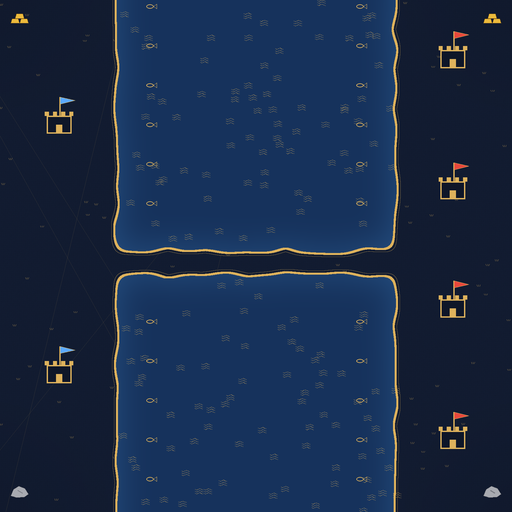
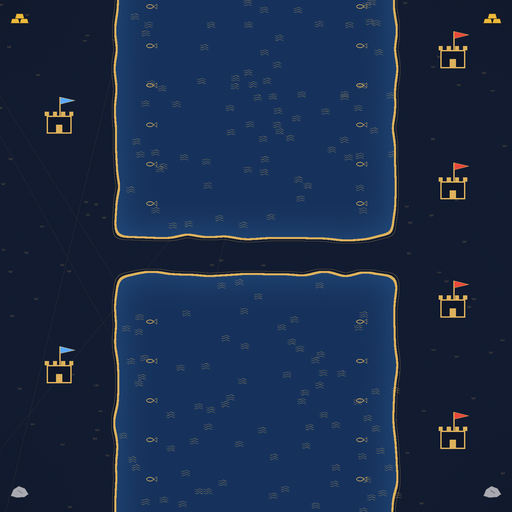
Fortress Bridge: widen the bridge to 48 m
At two squares the engine's shore smoothing flooded the bridge, so
nothing could cross; three squares keep it whole.

diff --git a/maps/tools/install_project.py b/maps/tools/install_project.py
@@ -44,7 +44,7 @@ TEXTS = {
         "两队各守一岸，中间只有一座窄长的陆桥，两侧全是深水。为《堡垒模式》设计，也可当普通团队图。 / Two teams on opposite shores, joined only by one long, narrow land bridge with deep water on both sides. Made for Fortress Mode; works as any team game.",
         "1 号位所在的队伍在左岸，其他队伍在右岸 / The first player's team takes the left shore, everyone else the right",
         "真人放同一队并占 1 号位，AI 放另一队 / Put humans on one team, with you in slot 1, and AIs on the other",
-        "两边各守一岸，中间只有一座约 32 米宽的陆桥，两侧是深水，停在一侧的战舰能打到整座桥。两岸都有浅滩和鱼群。 / One shore each and a single land bridge about 32 m wide between, with deep water on both sides; a warship on one side covers all of it. Both shores have shallows and fish.",
+        "两边各守一岸，中间只有一座约 48 米宽的陆桥，两侧是深水，停在一侧的战舰能打到大半座桥。两岸都有浅滩和鱼群。 / One shore each and a single land bridge about 48 m wide between, with deep water on both sides; a warship on one side covers most of it. Both shores have shallows and fish.",
     ),
     "fortress_hill": (
         "大家一起守护城河围着的中央小山，每位守方一对相邻的陆桥。为《堡垒模式》设计，也可当普通团队图。 / Hold the moated hill in the middle together, with a pair of close land bridges for each defender. Made for Fortress Mode; works as any team game.",

diff --git a/maps/tools/make_covers.py b/maps/tools/make_covers.py
@@ -45,7 +45,7 @@ MAPS = {
         "tagline": "两边各守一岸，中间只有一座窄长的陆桥",
         "tagline_en": "One shore each, and a single long, narrow land bridge between",
         "points": [
-            ("唯一通道", "One way across", "32 米宽的陆桥，战舰能从侧面轰到整座桥"),
+            ("唯一通道", "One way across", "48 米宽的陆桥，战舰能从侧面轰到大半座桥"),
             ("隔岸对峙", "Face to face", "两队分在左右两岸"),
             ("湖里有鱼", "Fishing", "两岸都有浅滩和鱼群"),
         ],

diff --git a/maps/fortress_bridge/publish/DESCRIPTION.md b/maps/fortress_bridge/publish/DESCRIPTION.md
@@ -11,7 +11,7 @@
 | | |
 |---|---|
 | 阵营 | 第一位玩家所在的队伍在左岸，其他队伍在右岸 |
-| 通道 | 中间一座陆桥，约 32 米宽，两侧是深水，没有别的路；停在一侧的战舰能打到整座桥 |
+| 通道 | 中间一座陆桥，约 48 米宽，两侧是深水，没有别的路；停在一侧的战舰能打到大半座桥 |
 | 水域 | 上下都是深湖，走不过去；两岸都有浅滩，可以捕鱼、造码头 |
 | 资源 | 标准开局资源，两岸后方各多一座金矿和石矿 |
 
@@ -33,7 +33,7 @@
 | | |
 |---|---|
 | Sides | The first player's team takes the left shore; every other team the right |
-| Way across | One land bridge in the middle, about 32 m wide, with deep water on both sides and no other way over; a warship on one side covers all of it |
+| Way across | One land bridge in the middle, about 48 m wide, with deep water on both sides and no other way over; a warship on one side covers most of it |
 | Water | Deep lakes above and below: no wading, but both shores have shallows for fishing and docks |
 | Resources | The standard start, plus an extra gold and stone deposit at the back of each shore |
 
